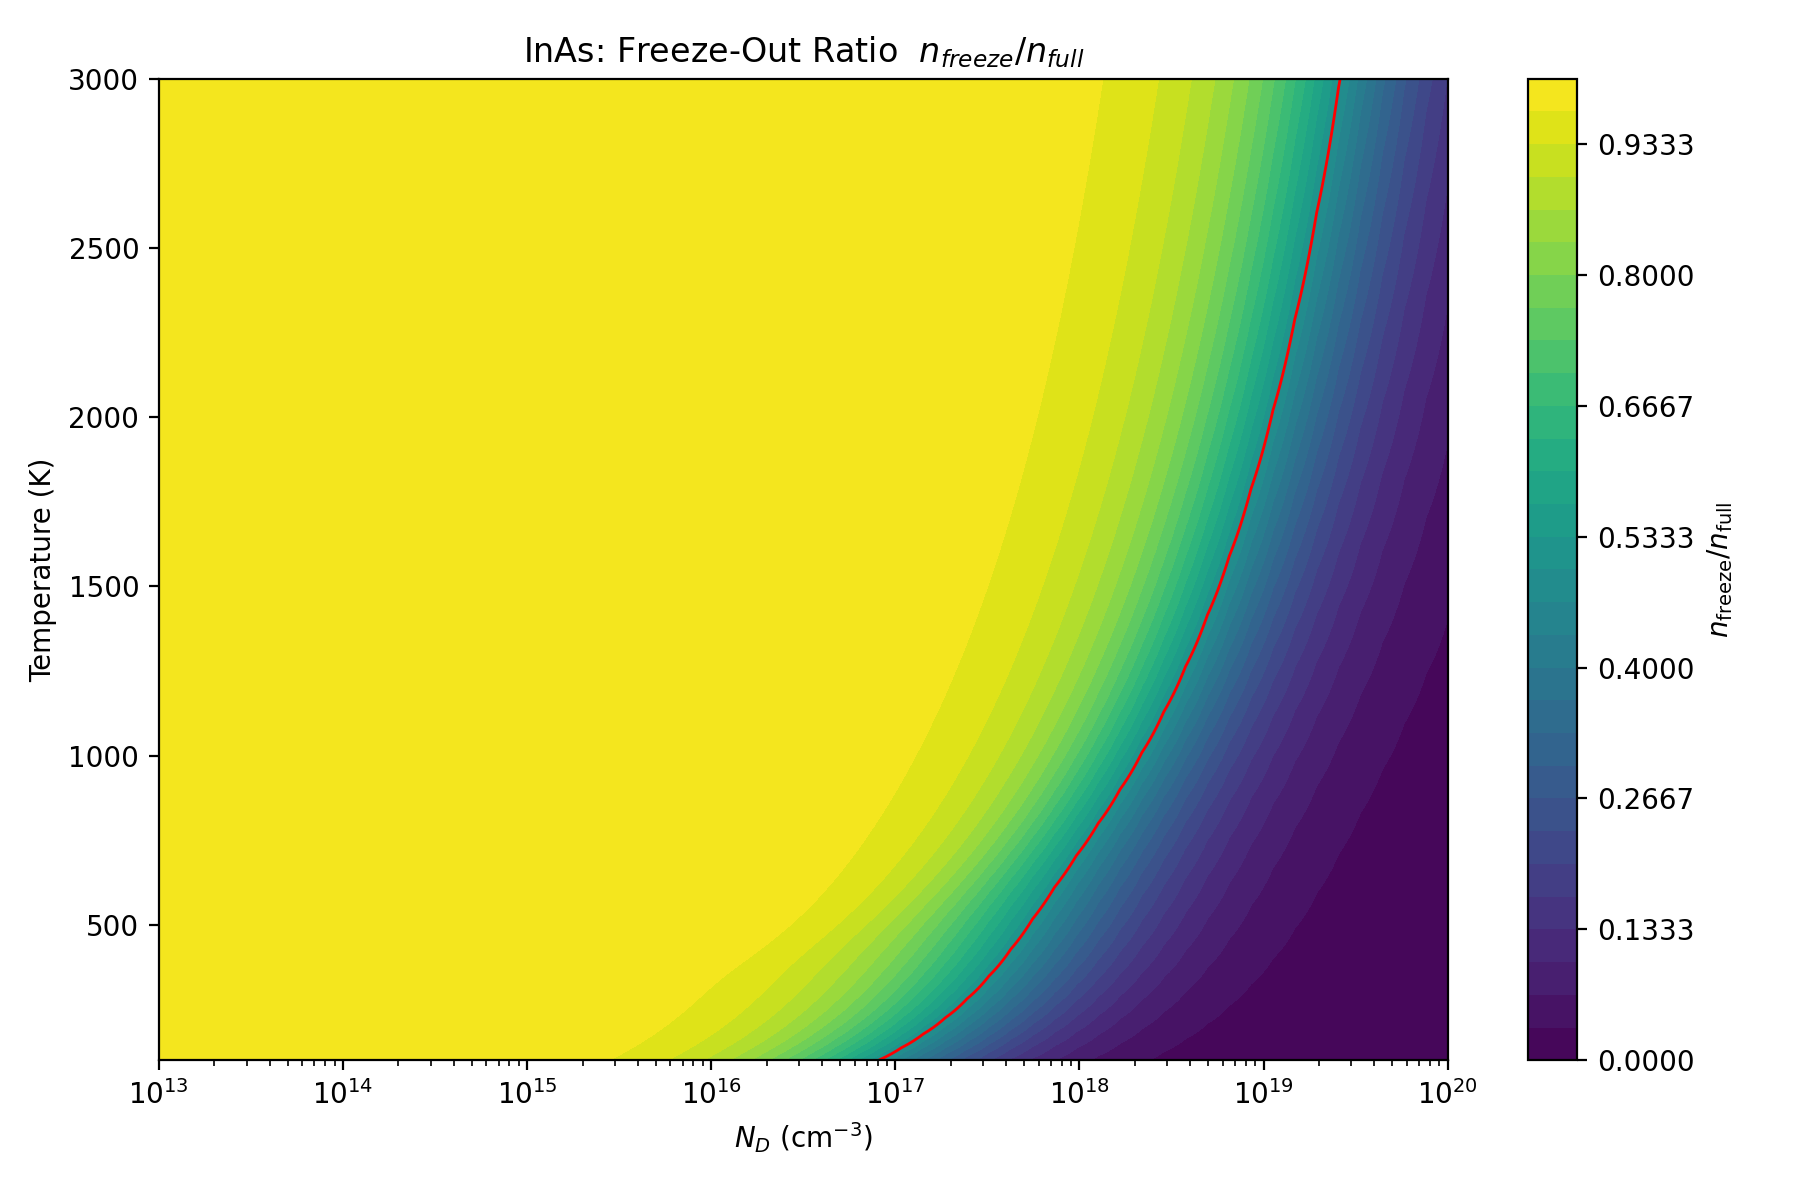
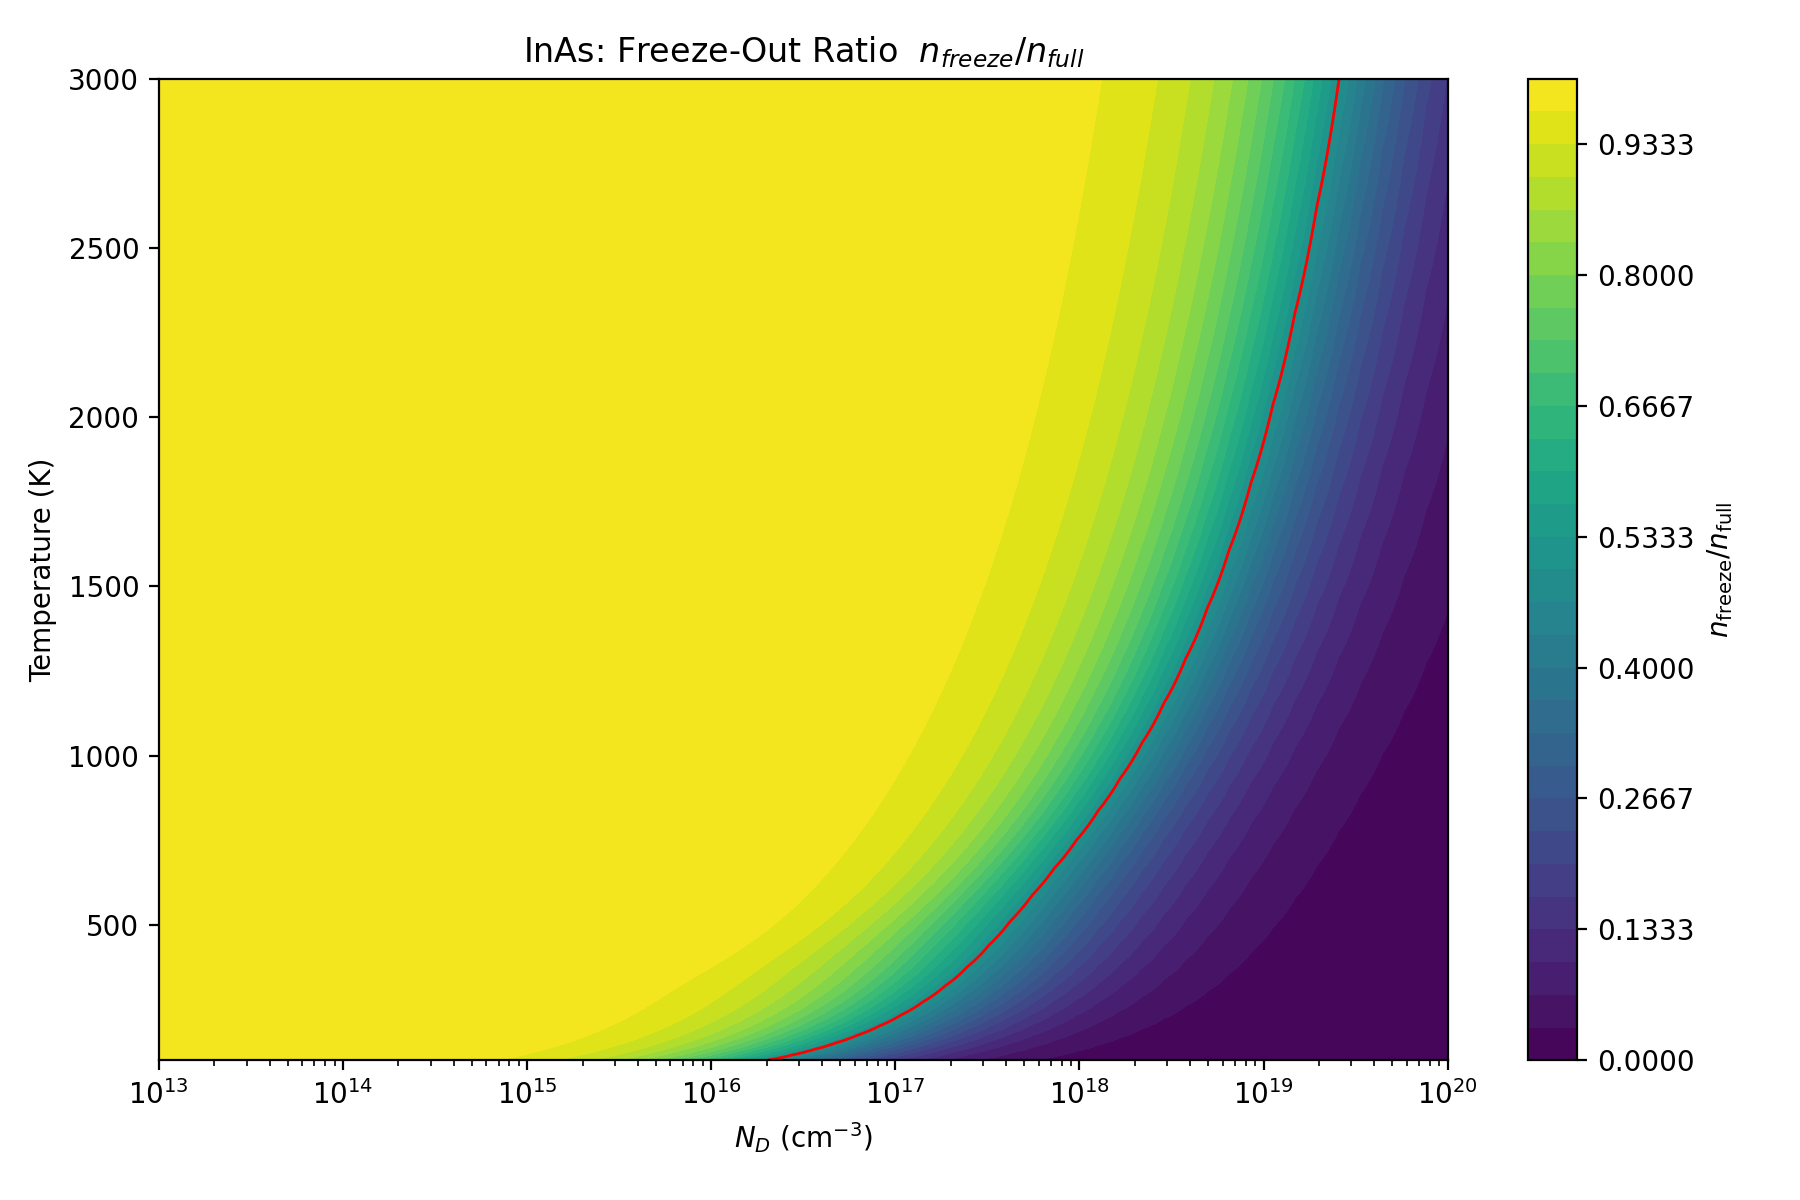
New plots for 1st order extra credit #1

diff --git a/First_Order_ExtraCredit_One.py b/First_Order_ExtraCredit_One.py
@@ -58,7 +58,7 @@ def donor_ionization_fraction_with_Fermi(mat, T, NA, ND,
 
     E_D_J = E_D_eV * q
     # exponent = (E_F - E_D)/kT = ln(n/Nc) - E_D/(kT)
-    exponent = np.log(n_safe / Nc_safe) - E_D_J / (kB * T)
+    exponent = np.log(n_safe / Nc_safe) + E_D_J / (kB * T)
 
     # Ionized fraction:
     fD = 1.0 / (1.0 + gD_local * np.exp(exponent))
@@ -99,7 +99,7 @@ def acceptor_ionization_fraction_with_Fermi(mat, T, NA, ND,
 
     E_A_J = E_A_eV * q
     # exponent = (E_A - E_F)/kT = ln(p/Nv) - E_A/(kT)
-    exponent = np.log(p_safe / Nv_safe) - E_A_J / (kB * T)
+    exponent = np.log(p_safe / Nv_safe) + E_A_J / (kB * T)
 
     fA = 1.0 / (1.0 + gA_local * np.exp(exponent))
 
